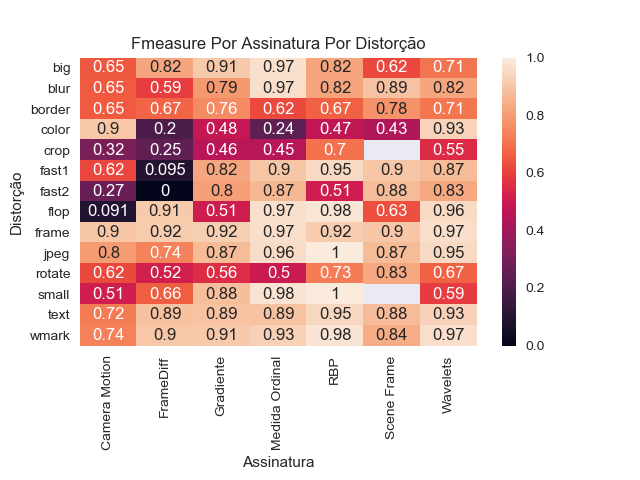
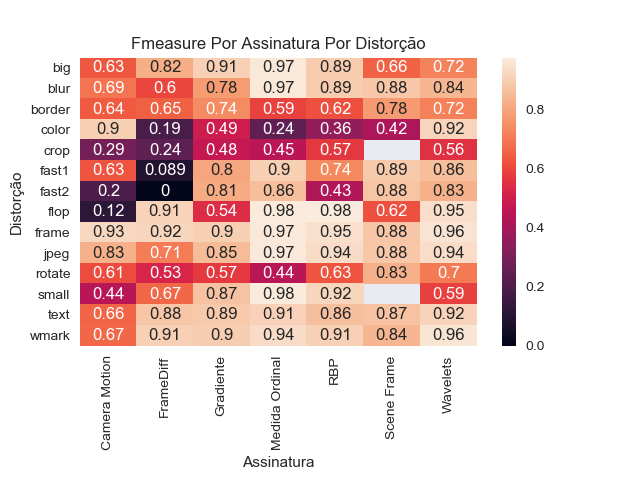
experimentos

diff --git a/estrutura/textuais/desenvolvimento/resultados.tex b/estrutura/textuais/desenvolvimento/resultados.tex
@@ -3,9 +3,10 @@
 \chapter{Análise e Discussão dos Resultados}
 \label{chap:resultados}
 
-Este capítulo discute os resultados obtidos no experimento de detecção de cópias de vídeos utilizando as assinaturas revisados neste trabalho, utilizando os conjuntos de parametrização e teste detalhados na Seção~\ref{sec:met-Experimentos}.
+Este capítulo discute os resultados obtidos no experimento de detecção de cópias de vídeos utilizando as assinaturas revisadas neste trabalho, utilizando os conjuntos de parametrização e teste detalhados na Seção~\ref{sec:met-Experimentos}.
 
-Conforme detalhado na seção anterior, para a determinação do limiar de classificação de cada assinatura, são realizadas simulações de classificação utilizando um intervalo de limiares. Os casos de parametrização de cada assinatura são dividos em 5 subconjuntos e ao final, é utilizada a média dos limiares resultantes da simulação com cada subconjunto como limiar para a assinatura na fase de testes. A Figura~\ref{fig:todos-limiares} ilustra como é feita a escolha de um limiar para cada algoritmo.
+Conforme detalhado na seção anterior, para a determinação do limiar de classificação de cada assinatura, são realizadas simulações de classificação utilizando um intervalo de limiares. Os casos de parametrização de cada assinatura são dividos em 5 subconjuntos e ao final, é utilizada a média dos limiares resultantes da simulação com cada subconjunto como limiar para a assinatura na fase de testes. A Figura~\ref{fig:todos-limiares} ilustra como é feita a escolha de um limiar para cada algoritmo onde foram plotadas as medidas de precisão, revocação e \textit{f-measure} para entender o comportamento de cada assinatura.
+
 
 \begin{figure}[h]
 	\centering
@@ -32,18 +33,31 @@ Os subconjuntos de parametrização foram nomeados de T.1 a T.5 e o melhor limia
 	\end{tabular}
 \end{table}
 
-Na sequência, serão discutidos os resultados obtidos nos testes utilizando os limiares definidos na etapa anterior para cada tipo de assinatura. As assinaturas serão analisadas quanto a sua robustez e unicidade de modo geral e separadamente por tipo de distorção aplicada (fotométrica, geométrica ou temporal). Por fim, será avaliado se a junção de um algoritmo temporal (camera motion) e um algoritmo espacial é mais eficaz em detectar cópias de vídeo que a utilização de um tipo de assinatura de forma isolada. 
+Na sequência, serão discutidos os resultados obtidos nos testes utilizando os limiares definidos na etapa anterior para cada tipo de assinatura. As assinaturas serão analisadas quanto a sua robustez e unicidade por tipo de distorção aplicada (fotométrica, geométrica ou temporal). Por fim, será avaliado se a junção de um algoritmo temporal (camera motion) e um algoritmo espacial é mais eficaz em detectar cópias de vídeo que a utilização de um tipo de assinatura de forma isolada. 
 
 \section{Robustez}
 
-Segundo \citeauthor{hua2004robust}, robustez é a capacidade de uma assinatura ser tolerante a ruído, o que quer dizer que dois vídeos com o mesmo conteúdo devem ter assinaturas idênticas ou muito similares, mesmo que eles tenham passado por algum tipo de distorção. Esta é uma das duas propriedades desejadas em uma assinatura, a outra sendo unicidade, que será abordada na próxima seção. Para avaliar quão robusto é cada tipo de assinatura revisado neste trabalho, é utilizado o valor de precisão.
+Segundo \citeauthor{hua2004robust}, robustez é a capacidade de uma assinatura ser tolerante a ruído, o que quer dizer que dois vídeos com o mesmo conteúdo devem ter assinaturas idênticas ou muito similares, mesmo que eles tenham passado por algum tipo de distorção. Esta é uma das duas propriedades desejadas em uma assinatura, a outra sendo unicidade, que será abordada na próxima seção.
+
+Ao tentar determinar a robustez de um algoritmo, leva-se em consideração apenas os casos de teste em que de fato um par de vídeos tem o mesmo conteúdo, ou seja, o vídeo de teste é uma cópia do vídeo original. A partir daí, a pergunta levantada é "quantos destes casos de cópia a assinatura consegue classificar corretamente?", ou em termos de recuperação de informações "quantos elementos relevantes foram selecionados?". Esta é exatamente a definição da medida de revocação~\cite{Ting2010}, que foi utilizada para este teste. As medidas de revocação obtidas para cada assinaturas podem ser vistas na Figura~\ref{fig:heatmap-revocacao}.
+
 
 \begin{figure}[h]
 	\centering
-	\caption{Mapa de calor da precisão de cada tipo de assinatura com cada tipo de distorção}
-	\label{fig:heatmap-precisao}
-	\includegraphics[width=\textwidth]{dados/figuras/experimentos/heatmap_final_precisao.png}	
+	\caption{Mapa de calor de revocação de cada tipo de assinatura com cada tipo de distorção}
+	\label{fig:heatmap-revocacao}
+	\includegraphics[width=\textwidth]{dados/figuras/experimentos/heatmap_final_recall.png}	
 \end{figure}
+
+As assinaturas temporais (Camera Motion e FrameDiff) obtiveram os piores resultados na análise da robustez em geral, sendo que elas são especialmente afetadas pelas distorções temporais de aceleração fast1 e fast2. É possível notar também que a medida com que os vídeos foram mais acelerados, as assinaturas temporais tiveram resultados piores. A assinatura temporal FrameDiff obteve aproximadamente 6\% no teste com a distorção fast1 e e 0\% com a distorção fast2, mostrando que esse tipo de assinatura é extremamente sensível à perda de informação causada pela diminuição do número de quadros de um vídeo. A Camera Motion foi mais sensível a distorção flop, que inverte o vídeo horizontalmente. Isso faz sentido pois esta distorção inverte a translação e rotação da câmera. A última distorção temporal, frame, foi a que causou menos problemas para as assinaturas em geral (3 delas conseguiram classificar corretamente em 100\% dos casos e todas as outras têm revocação maior que 80\%), pois a quantidade de quadros retirados de um vídeo é pequena se comparado às outras distorções temporais, além disso este tipo de distorção é pouco perceptível por humanos.
+
+Outras distorções que tiveram pouco efeito sobre a classificação são as que adicionam textos de forma uniforme nos vídeos: text e wmark. O único caso em que estas distorções afetaram significativamente a classificação é com a utilização da assinatura Camera Motion. Como ela se baseia no rastreamento do movimento de regiões do vídeo entre os quadros, o posicionamento estático do texto realizado pela distorção o impede de acompanhar os movimentos precisamente.
+
+Entre as distorções fotométricas, a color foi a mais efetiva em enganar a detecção de cópias, apenas as assinaturas Camera Motion e Wavelets conseguiram resultados bom com revocação acima dos 90\%, enquanto todas as outras assinaturas obteram valores de revocação abaixo de 40\%. Os resultados favoráveis a essas duas assinaturas se devem ao fato destas não utilizarem valores de luminância para descrever um vídeo, enquanto os outros o fazem. Já a distorção blur afetou negativamente todos as assinaturas que usam bordas ou pequenas regiões de interesse para descrever um vídeo, pois enfraquece os detalhes de um quadro. A distorção jpeg teve resultados semelhantes por também causar uma perda de informação dentro de cada quadro do vídeo. 
+
+% Por fim, as assinaturas geométricas...
+
+
 % Verificar se consegue encontrar a cópia
 \section{Unicidade}
 % Verificar se identifica que é cópia de apenas 1 vídeo
